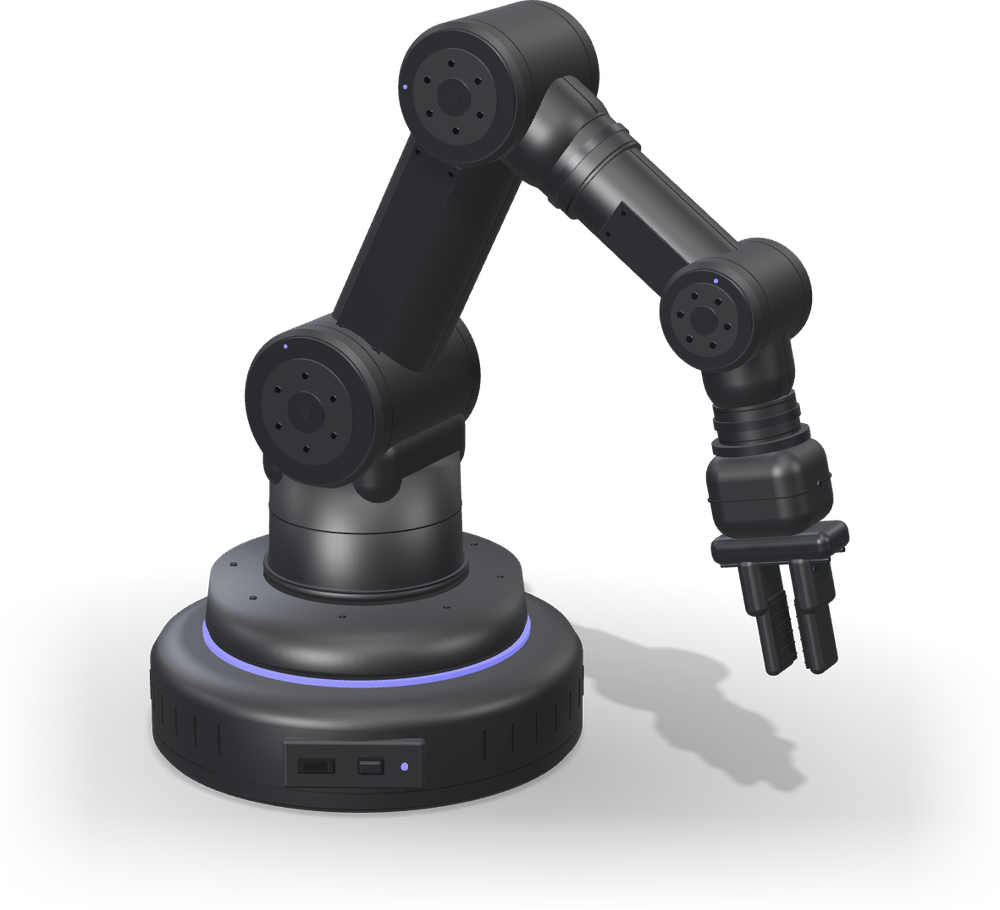
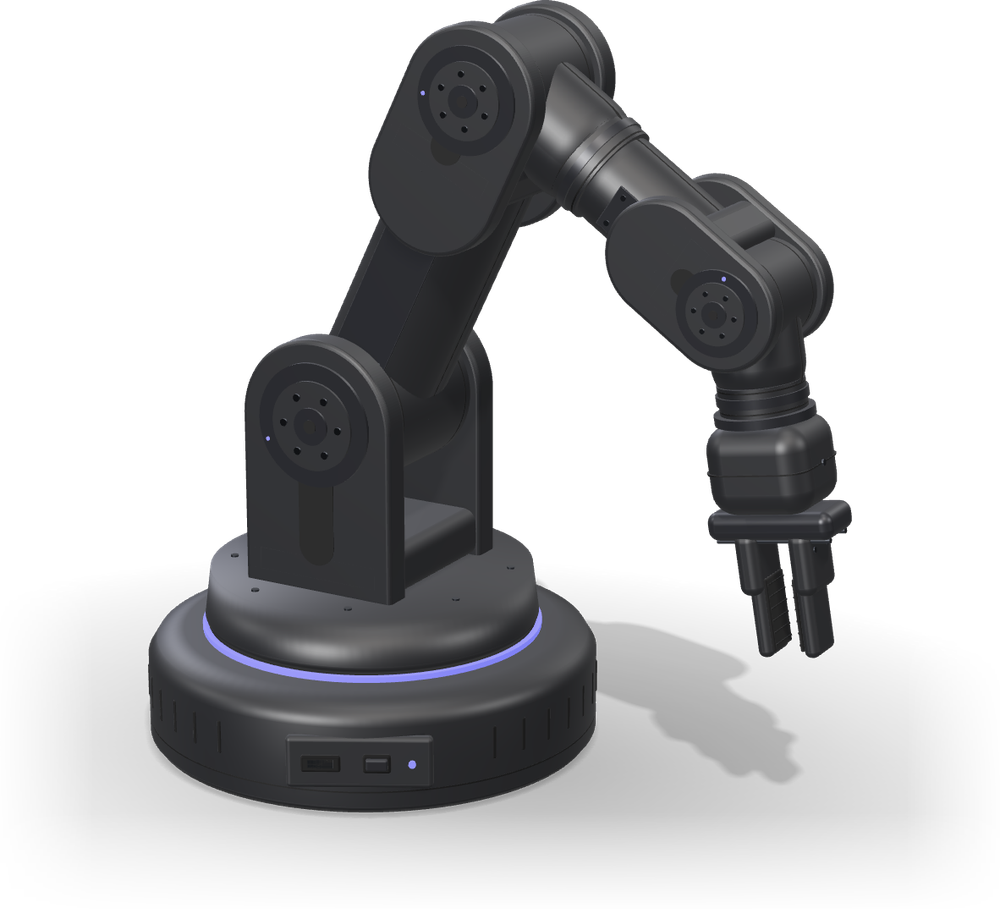
Brazo robótico: piezas en U que encajan una dentro de otra
Cada articulación de hombro, codo y muñeca es una horquilla en U que abraza
la pieza siguiente (el servo queda escondido dentro); giros del antebrazo y
de la pinza con collares; sin columna.

Claude-Session: https://claude.ai/code/session_016XmncqW8VoW2jLiGMPdDLy

diff --git a/scripts/fotos-piezas/modelos.ts b/scripts/fotos-piezas/modelos.ts
@@ -1448,40 +1448,71 @@ function brazoImpreso(t: Taller) {
     }
   };
 
+  /** Tapa redonda de una articulación (por fuera de la horquilla): anillo, tornillos y luz */
+  const tapa = (padre: Group, x: number, z: number, r: number, s: number) => {
+    t.cilindro(r, 0.12, junta, x, 0, z + s * 0.06, "z", 64, r, padre);
+    t.cilindro(r * 0.72, 0.1, cuerpo, x, 0, z + s * 0.16, "z", 64, r * 0.72, padre);
+    t.cilindro(r * 0.3, 0.1, junta, x, 0, z + s * 0.24, "z", 48, r * 0.3, padre);
+    t.cilindro(r * 0.11, 0.04, ranura, x, 0, z + s * 0.3, "z", 24, r * 0.11, padre);
+    corona(padre, [x, 0, z + s * 0.21], r * 0.5, 6, "z", s, r * 0.06);
+    const a = Math.PI * 0.62;
+    t.cilindro(
+      0.07,
+      0.04,
+      luz,
+      x + Math.cos(a) * (r - 0.2),
+      Math.sin(a) * (r - 0.2),
+      z + s * 0.13,
+      "z",
+      16,
+      0.07,
+      padre,
+    );
+  };
+
   /**
-   * Módulo de articulación que gira sobre z (hombro, codo, muñeca): carcasa cilíndrica con los
-   * cantos achaflanados, ranuras de cierre y una tapa a cada lado con anillo, tornillos y una luz.
+   * Horquilla en U al final de una pieza: base y dos mejillas redondeadas que abrazan a la pieza
+   * siguiente (y a su servo, que queda escondido dentro). El eje de giro queda en x = `xEje`, sobre z.
    */
-  const modulo = (padre: Group, x: number, y: number, r: number, ancho: number) => {
-    const c = 0.18; // chaflán
-    const nucleo = ancho - 2 * c;
-    t.cilindro(r, nucleo, cuerpo, x, y, 0, "z", 72, r, padre);
+  const horquilla = (
+    padre: Group,
+    xEje: number,
+    largo: number,
+    R: number,
+    interior: number,
+    grosor: number,
+  ) => {
+    const x0 = xEje - largo;
+    const fuera = interior / 2 + grosor;
+    // Base de la U (une las dos mejillas)
+    t.malla(new RoundedBoxGeometry(1.6, 2 * R, 2 * fuera, 5, 0.45), cuerpo, x0 + 0.8, 0, 0, padre);
     for (const s of [-1, 1]) {
-      const zc = s * (nucleo / 2 + c / 2);
-      // radioArriba = lado +z
-      t.cilindro(s > 0 ? r : r - c, c, cuerpo, x, y, zc, "z", 72, s > 0 ? r - c : r, padre);
-      t.cilindro(r + 0.004, 0.05, ranura, x, y, s * (nucleo / 2 - 0.55), "z", 72, r + 0.004, padre);
-      const z0 = s * (ancho / 2);
-      t.cilindro(r - c - 0.05, 0.12, junta, x, y, z0 + s * 0.06, "z", 72, r - c - 0.05, padre);
-      t.cilindro(r * 0.66, 0.1, cuerpo, x, y, z0 + s * 0.17, "z", 72, r * 0.66, padre);
-      t.cilindro(r * 0.26, 0.1, junta, x, y, z0 + s * 0.24, "z", 48, r * 0.26, padre);
-      t.cilindro(r * 0.1, 0.04, ranura, x, y, z0 + s * 0.3, "z", 24, r * 0.1, padre);
-      corona(padre, [x, y, z0 + s * 0.22], r * 0.46, 6, "z", s);
-      // Luz de estado del motor
-      const a = Math.PI * 0.62;
-      t.cilindro(
-        0.07,
-        0.04,
-        luz,
-        x + Math.cos(a) * (r - c - 0.27),
-        y + Math.sin(a) * (r - c - 0.27),
-        z0 + s * 0.13,
-        "z",
-        16,
-        0.07,
-        padre,
-      );
+      const g = new ExtrudeGeometry(estadio(largo, 2 * R), {
+        depth: grosor - 0.3,
+        bevelEnabled: true,
+        bevelSize: 0.15,
+        bevelThickness: 0.15,
+        bevelSegments: 4,
+        curveSegments: 48,
+      });
+      g.translate(0, 0, s > 0 ? interior / 2 + 0.15 : -fuera + 0.15);
+      t.malla(g, cuerpo, x0, 0, 0, padre);
+      // Hendidura decorativa en la cara de fuera de la mejilla
+      const h = new ExtrudeGeometry(estadio(largo * 0.5, R * 0.5), {
+        depth: 0.04,
+        bevelEnabled: false,
+      });
+      h.translate(0, 0, s * fuera - (s > 0 ? 0.02 : 0.02));
+      t.malla(h, ranura, x0 + R * 0.6, 0, 0, padre);
+      tapa(padre, xEje, s * fuera, R * 0.78, s);
     }
+  };
+
+  /** Comienzo redondeado de una pieza (lo que entra en la horquilla anterior), con el eje en x = 0 */
+  const lengua = (padre: Group, R: number, ancho: number) => {
+    t.cilindro(R, ancho, cuerpo, 0, 0, 0, "z", 64, R, padre);
+    for (const s of [-1, 1])
+      t.cilindro(R + 0.004, 0.05, ranura, 0, 0, s * (ancho / 2 - 0.3), "z", 64, R + 0.004, padre);
   };
 
   /** Módulo que gira sobre su propio eje (x): un collar con ranuras a cada lado */
@@ -1542,7 +1573,7 @@ function brazoImpreso(t: Taller) {
     );
     ranuraVent.rotation.y = a;
   }
-  // Anillo de luz azul entre el pie y la plataforma que gira (1.ª articulación)
+  // Anillo de luz azul entre el pie y la plataforma que gira (1.ª articulación: gira todo el brazo)
   t.cilindro(5.6, 0.18, luz, 0, 3.79, 0, "y", 96);
   torneado(
     [
@@ -1576,57 +1607,38 @@ function brazoImpreso(t: Taller) {
   tecla.rotation.x = 0.18;
   t.cilindro(0.12, 0.12, luz, 1.65, 1.75, 7.5, "z", 16, 0.12, panel);
 
-  // ---------- Columna (1.ª articulación: gira toda la parte de arriba) ----------
-  torneado(
-    [
-      [0, 0],
-      [3.5, 0],
-      [3.5, 0.35],
-      [3.3, 0.5],
-      [3.2, 4.2],
-      [0, 4.2],
-    ],
-    cuerpo,
-    5.78,
-  );
-  t.cilindro(3.48, 0.08, junta, 0, 6.2, 0, "y", 96);
-  t.cilindro(3.27, 0.05, ranura, 0, 8.2, 0, "y", 96);
-  // Soporte del hombro: une la columna con el módulo del hombro
-  const yHombro = 12.3;
-  t.redonda(5.2, 2.6, 5.8, 0.9, cuerpo, 0, 10.3, 0);
+  // ---------- 2.ª articulación: hombro (horquilla sobre la plataforma) ----------
+  const hombro = grupo(raiz, 0, 5.75, Math.PI / 2); // aquí x apunta hacia arriba
+  horquilla(hombro, 5.6, 5.6, 2.6, 4.6, 1.0);
 
-  // ---------- 2.ª articulación: hombro ----------
-  modulo(raiz, 0, yHombro, 2.7, 6.6);
-
-  // ---------- Brazo (hombro → codo) ----------
+  // ---------- Brazo (hombro → codo): entra en la horquilla del hombro y acaba en la del codo ----------
   const L1 = 12;
-  const brazo = grupo(raiz, 0, yHombro, 1.12);
-  barra(brazo, 0, L1, 3.7, 4.2);
+  const brazo = grupo(hombro, 5.6, 0, 1.12 - Math.PI / 2);
+  lengua(brazo, 2.45, 4.45);
+  barra(brazo, 0.6, L1 - 3.6, 3.9, 4.45);
+  horquilla(brazo, L1, 3.0, 2.15, 3.6, 0.85);
 
-  // ---------- 3.ª articulación: codo ----------
-  modulo(brazo, L1, 0, 2.3, 5.2);
+  // ---------- Antebrazo: 3.ª (codo), 4.ª (gira sobre sí mismo) y horquilla de la muñeca ----------
+  const L2 = 10;
+  const antebrazo = grupo(brazo, L1, 0, -1.72);
+  lengua(antebrazo, 2.0, 3.45);
+  barra(antebrazo, 0.4, 2.4, 3.5, 3.45);
+  rodillo(antebrazo, 3.75, 1.65, 1.1);
+  barra(antebrazo, 4.6, L2 - 2.4 - 4.6, 3.0, 3.1);
+  horquilla(antebrazo, L2, 2.4, 1.7, 2.9, 0.7);
 
-  // ---------- Antebrazo, con la 4.ª articulación (gira sobre sí mismo) ----------
-  const L2 = 10.5;
-  const antebrazo = grupo(brazo, L1, 0, -1.75);
-  barra(antebrazo, 0, 2.6, 3.3, 3.8);
-  rodillo(antebrazo, 4.0, 1.6, 1.5);
-  barra(antebrazo, 4.9, L2 - 4.9, 2.8, 3.0);
-
-  // ---------- 5.ª articulación: muñeca (sube y baja la pinza) ----------
-  modulo(antebrazo, L2, 0, 1.75, 4.0);
-
-  // ---------- Muñeca, con la 6.ª articulación (gira la pinza) ----------
-  const muneca = grupo(antebrazo, L2, 0, -0.72);
-  barra(muneca, 0, 2.2, 2.7, 3.1);
-  rodillo(muneca, 3.6, 1.3, 1.2);
+  // ---------- Muñeca: 5.ª (sube y baja) y 6.ª (gira la pinza) ----------
+  const muneca = grupo(antebrazo, L2, 0, -0.8);
+  lengua(muneca, 1.6, 2.75);
+  barra(muneca, 0.3, 1.6, 2.9, 2.75);
+  rodillo(muneca, 3.0, 1.35, 0.9);
   // Brida donde se atornilla la pinza
-  t.cilindro(1.55, 0.3, junta, 4.35, 0, 0, "x", 64, 1.55, muneca);
-  corona(muneca, [4.5, 0, 0], 1.12, 6, "x", 1, 0.09);
+  t.cilindro(1.55, 0.3, junta, 3.6, 0, 0, "x", 64, 1.55, muneca);
+  corona(muneca, [3.75, 0, 0], 1.12, 6, "x", 1, 0.09);
 
   // ---------- Pinza de dedos paralelos (abre hacia arriba y abajo, así se ven los dos) ----------
   const pinza = new Group();
-  pinza.position.x = 4.5;
+  pinza.position.x = 3.75;
   pinza.rotation.x = Math.PI / 2;
   muneca.add(pinza);
   // Cuerpo: aloja el servo que abre y cierra

diff --git a/CLAUDE.md b/CLAUDE.md
@@ -36,7 +36,7 @@ que hacer el usuario: lista en `INFORME.md` §3 y guía `DESPLIEGUE.md`. No empe
 Decisión de Jesse: los kits se presentan MODULARES (las piezas no cambian): se unen con imanes y pines pogo
 (`conectorImantado` en `modelos.ts`) y solo lo que no se puede imantar (servos, motores, pilas) lleva cables
 JST blancos; sin cables Dupont. `MODELOS[slug].construir(t, { modular: true })`
-quita los cables sueltos (servo con JST, portapilas y protoboard sin cables). Brazo (Jesse, 30-10-2026): 6 articulaciones, carcasa
+quita los cables sueltos (servo con JST, portapilas y protoboard sin cables). Brazo (Jesse, 30-10-2026): 6 articulaciones con piezas en U (`horquilla`) que encajan una en otra, carcasa
 impresa en 3D negra mate que esconde los servos, juntas redondas con tornillos, pinza de dedos paralelos, base
 torneada con la placa y las pilas dentro, anillo de luz azul y USB/interruptor delante (`brazoImpreso`). Estación: caja propia (`cajaEstacion`) con pantalla, interruptor y
 USB-C; los sensores se pegan con imanes a sus lados. El coche se queda como estaba (Jesse, 30-10-2026).
